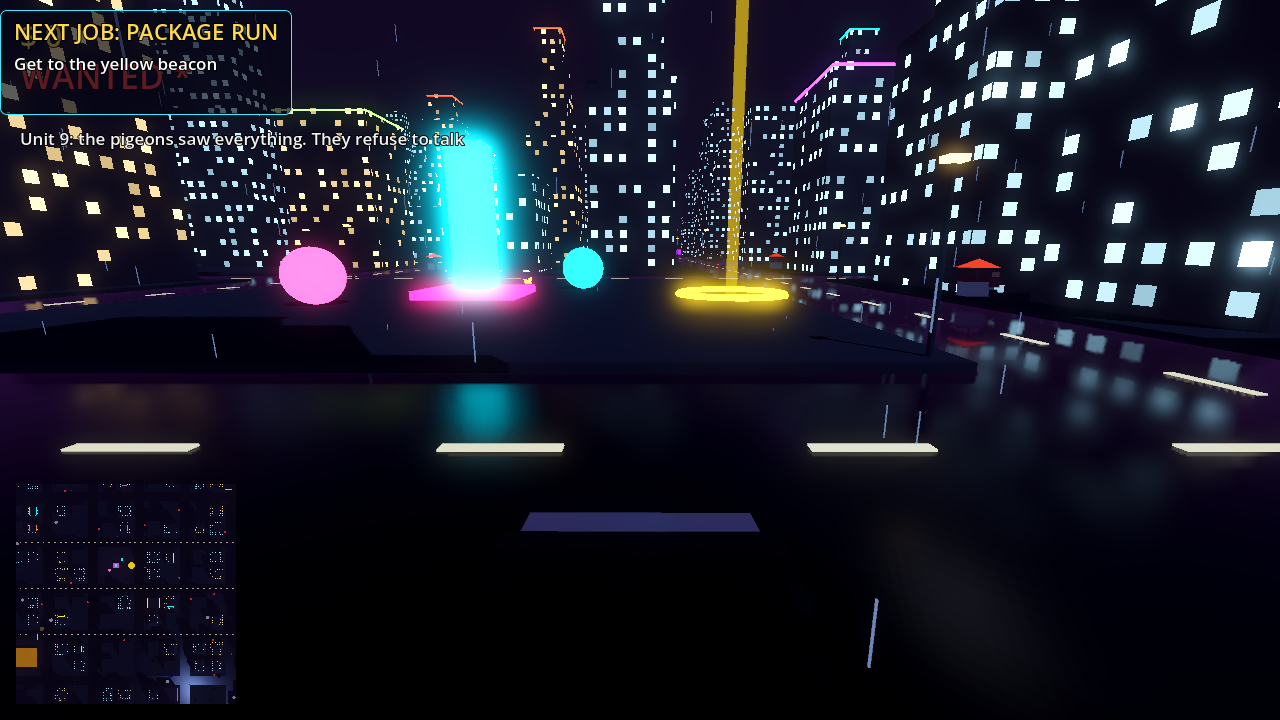
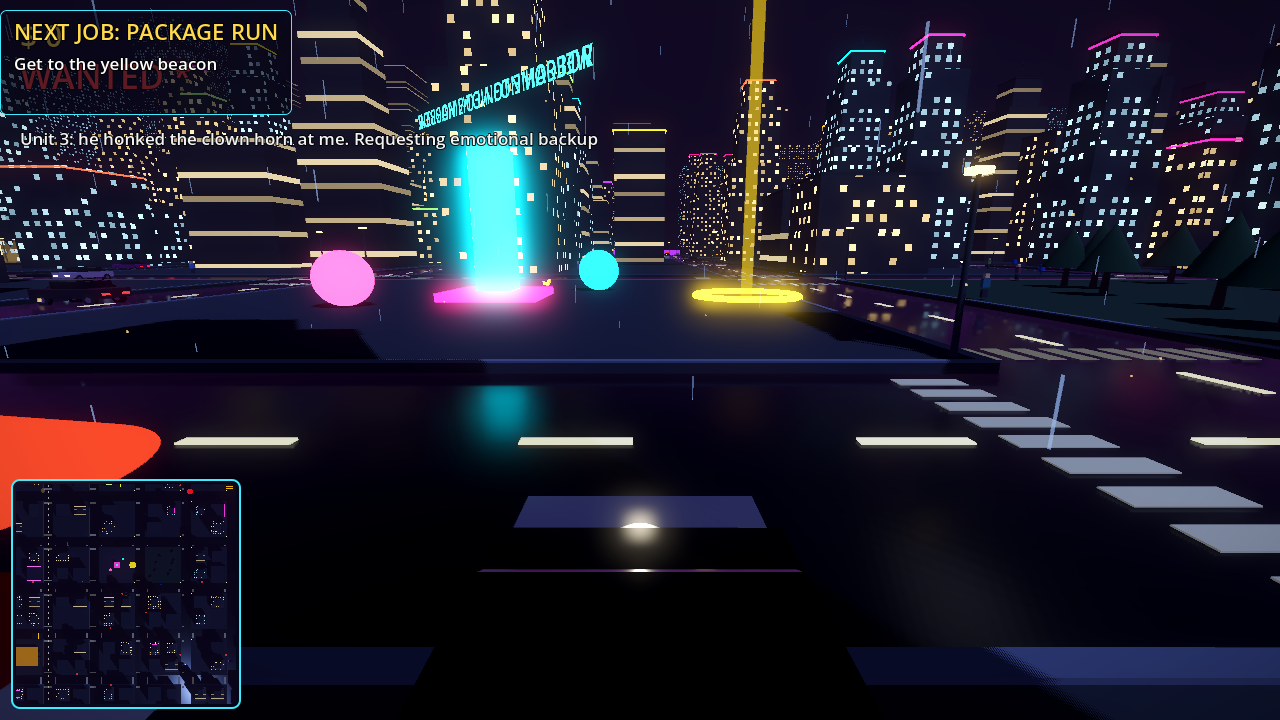
v1.3.0: design pass, neon UI theme, denser world
Unified neon design system (themed buttons, sliders, panels), cinematic
vignette, pulsing title, framed minimap. World: crosswalks, curb edging,
distant skyline ring across the harbor, banded office window variants,
rotating holo sign over the plaza, yellow cabs in traffic. Cars: angled
windshields, hubcaps, brighter headlights. Air motes drift in the night.

diff --git a/README.md b/README.md
@@ -27,7 +27,8 @@ Take any car, run jobs for cash, push your luck to five stars. Every chase ends 
 
 ## Features
 
-- Procedurally generated neon city: 100 seeded blocks of stepped towers with lit windows, blinking antenna beacons, neon rooftop trims, flickering signs, street lights, parks, a plaza and a harbor waterfront
+- Procedurally generated neon city: 100 seeded blocks of stepped towers with lit windows, blinking antenna beacons, neon rooftop trims, flickering signs, street lights, crosswalks, curbs, parks, a plaza with a rotating holo sign, a harbor waterfront and a distant skyline ring across the water
+- A consistent neon design system across every menu, panel and slider, with a cinematic vignette and yellow cabs in traffic
 - Rain-slick streets with real screen space reflections, rain, light cones, a starry shader sky with a moon, and a FANCY or FAST graphics toggle
 - Third person on-foot movement with sprint and jump, walk up to any car and take it
 - Arcade vehicle physics with headlight beams, brake lights, collision sparks, handbrake tire smoke and rev-following engine audio
